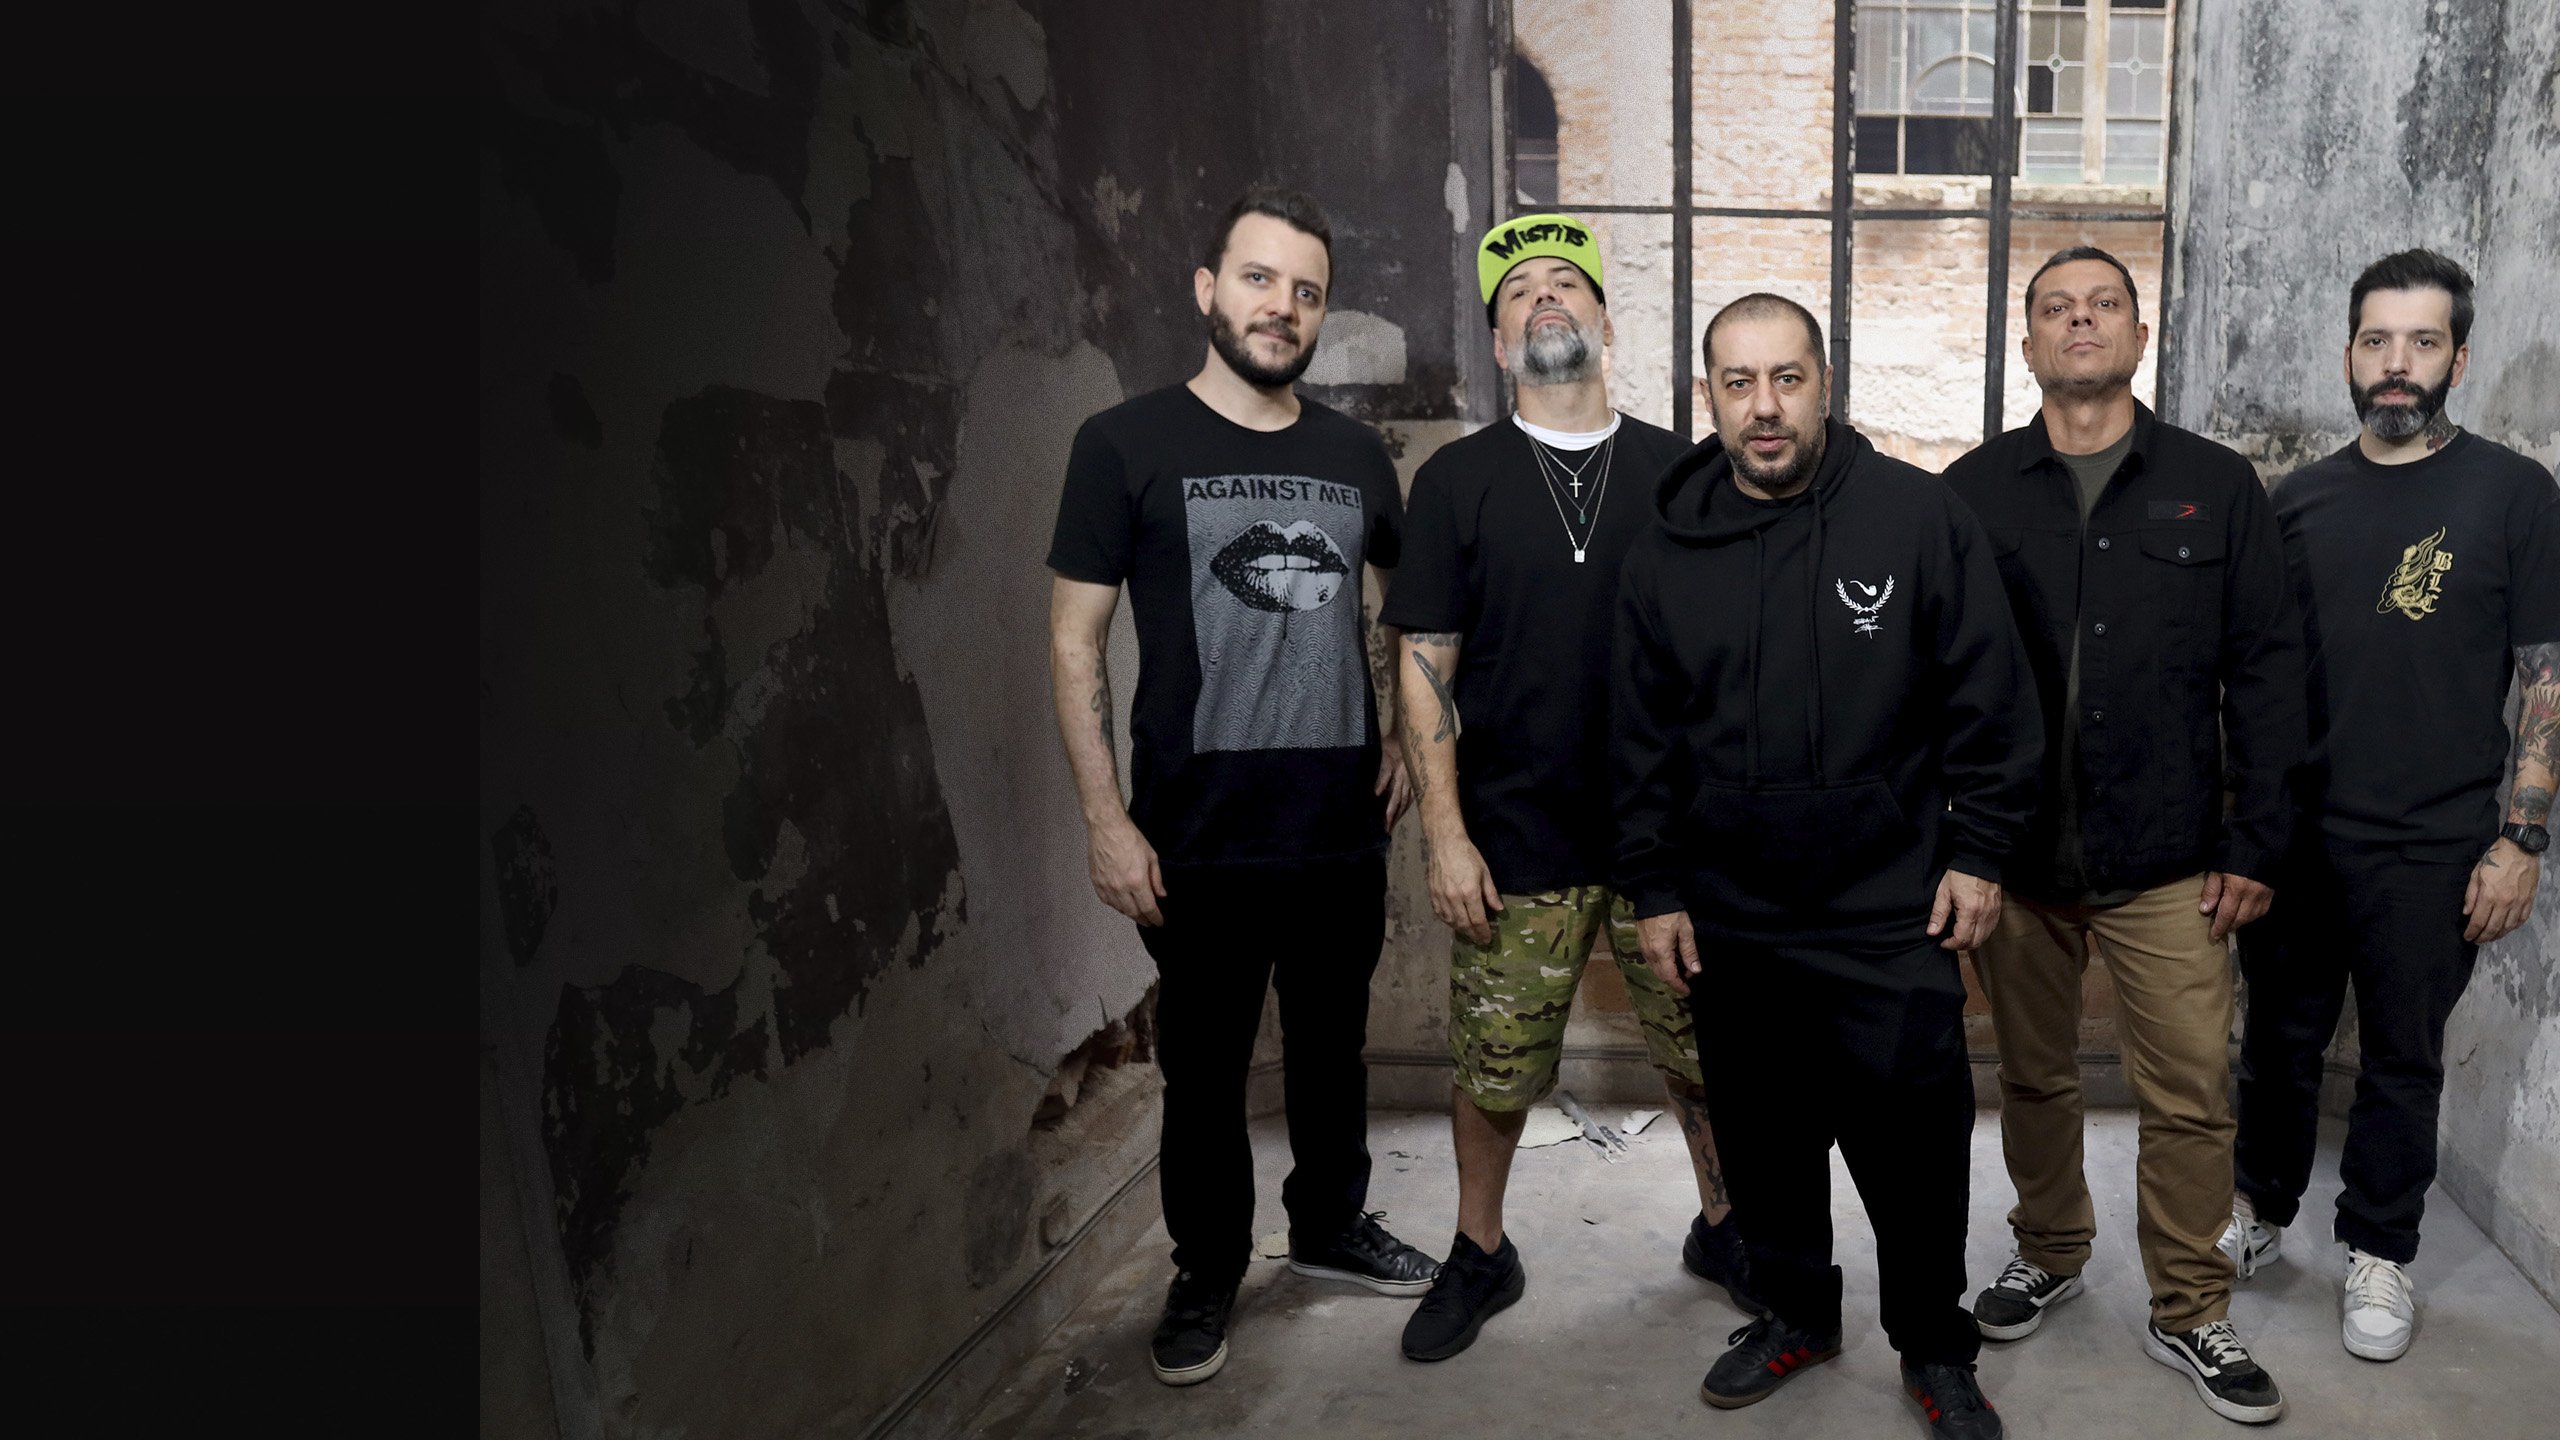
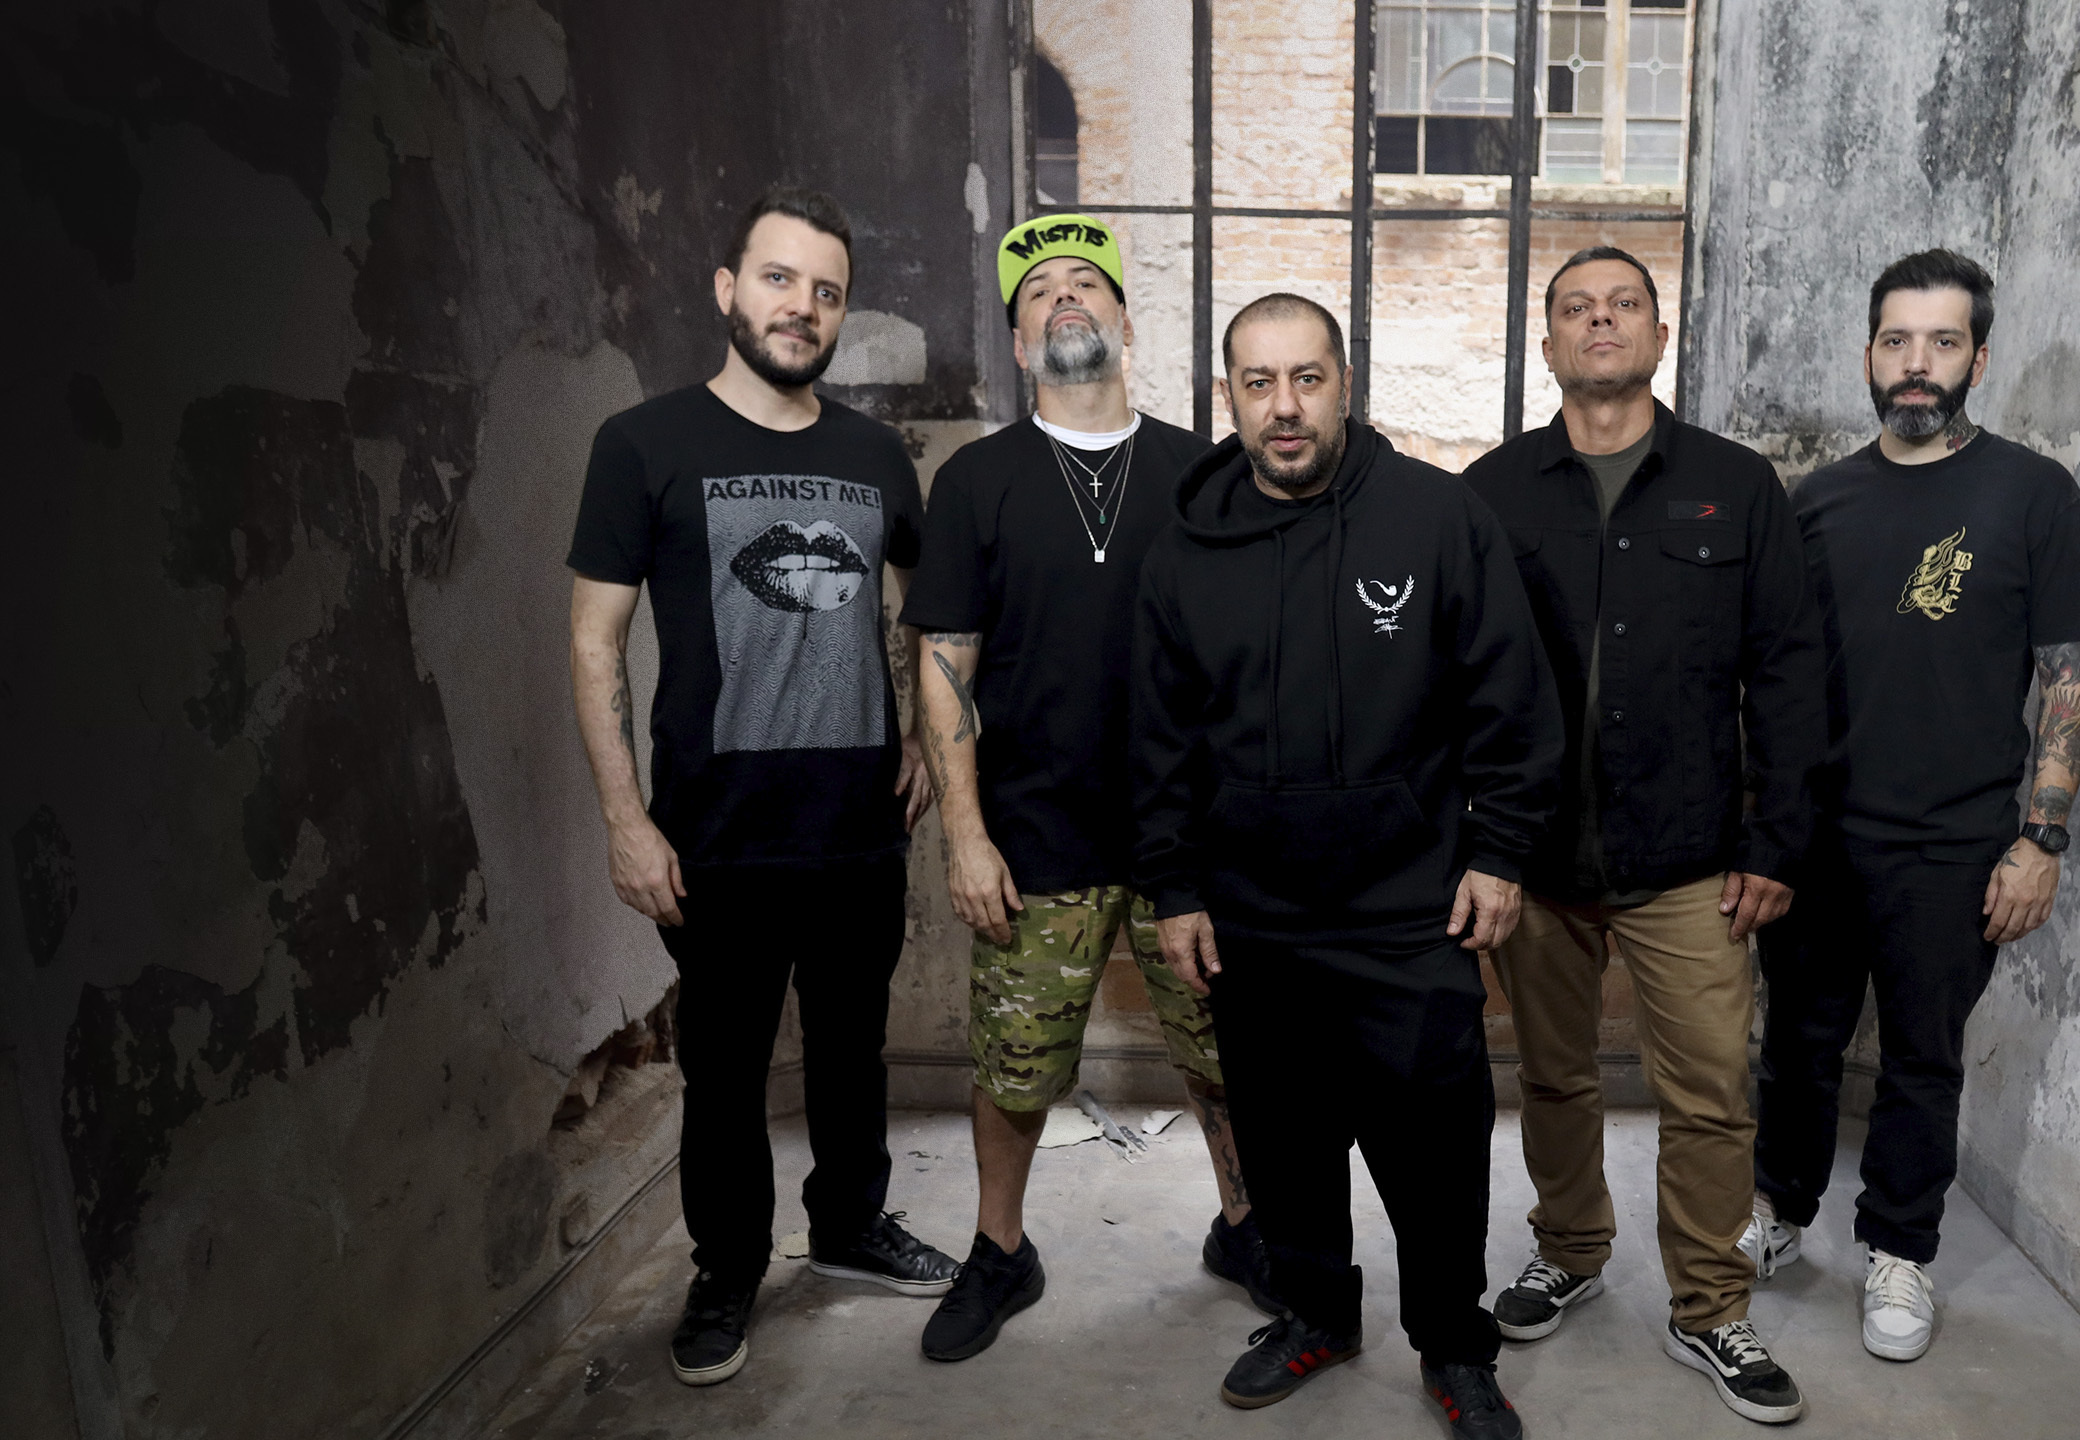
fix: recorta a tarja preta do arquivo da foto da banda
A barra escura ao lado da banda não era o container nem enquadramento:
estava dentro do JPEG. Medindo a luminância coluna a coluna, as colunas
0 a 479 (18% da largura) são um retângulo chapado em 12 de luminância, e
o valor salta para 19 exatamente na coluna 480 — sobra do export, não
parte da cena.

A arte versionada passa a ser a recortada, 2080x1440, e content/show.ts
acompanha. Como a proporção do quadro é derivada do conteúdo, o layout se
ajusta sozinho e a foto ainda ganha altura: 671x377 -> 671x465.

O recorte saiu do arquivo original do zip, não do que já estava no repo,
para reencodar uma vez só e na mesma qualidade da fonte (q94).

Conferido que é só essa borda: topo, base e lateral direita da foto da
banda têm conteúdo normal, e a área escura à esquerda do hero é degradê
de verdade (15 -> 6 -> 7 -> ... -> 164), que existe para dar contraste à
headline e fica como está.

Claude-Session: https://claude.ai/code/session_01Ds6Sz2PrfifME7pN3h9g3F

diff --git a/content/show.ts b/content/show.ts
@@ -26,9 +26,15 @@ export const show = {
   headlinerPlaceholder: "Atração principal a ser anunciada",
 
   media: {
+    /**
+     * O arquivo do designer vinha com uma tarja preta chapada ocupando os
+     * 480px da esquerda (18% da largura), sobra do export e não parte da
+     * cena — ela aparecia como uma barra morta ao lado da banda. A arte
+     * versionada já está recortada, daí a proporção 2080x1440.
+     */
     src: "/images/cpm22.jpg",
     alt: "CPM22, atração principal da Rock Edition",
-    width: 2560,
+    width: 2080,
     height: 1440,
   } satisfies Media,
 };
